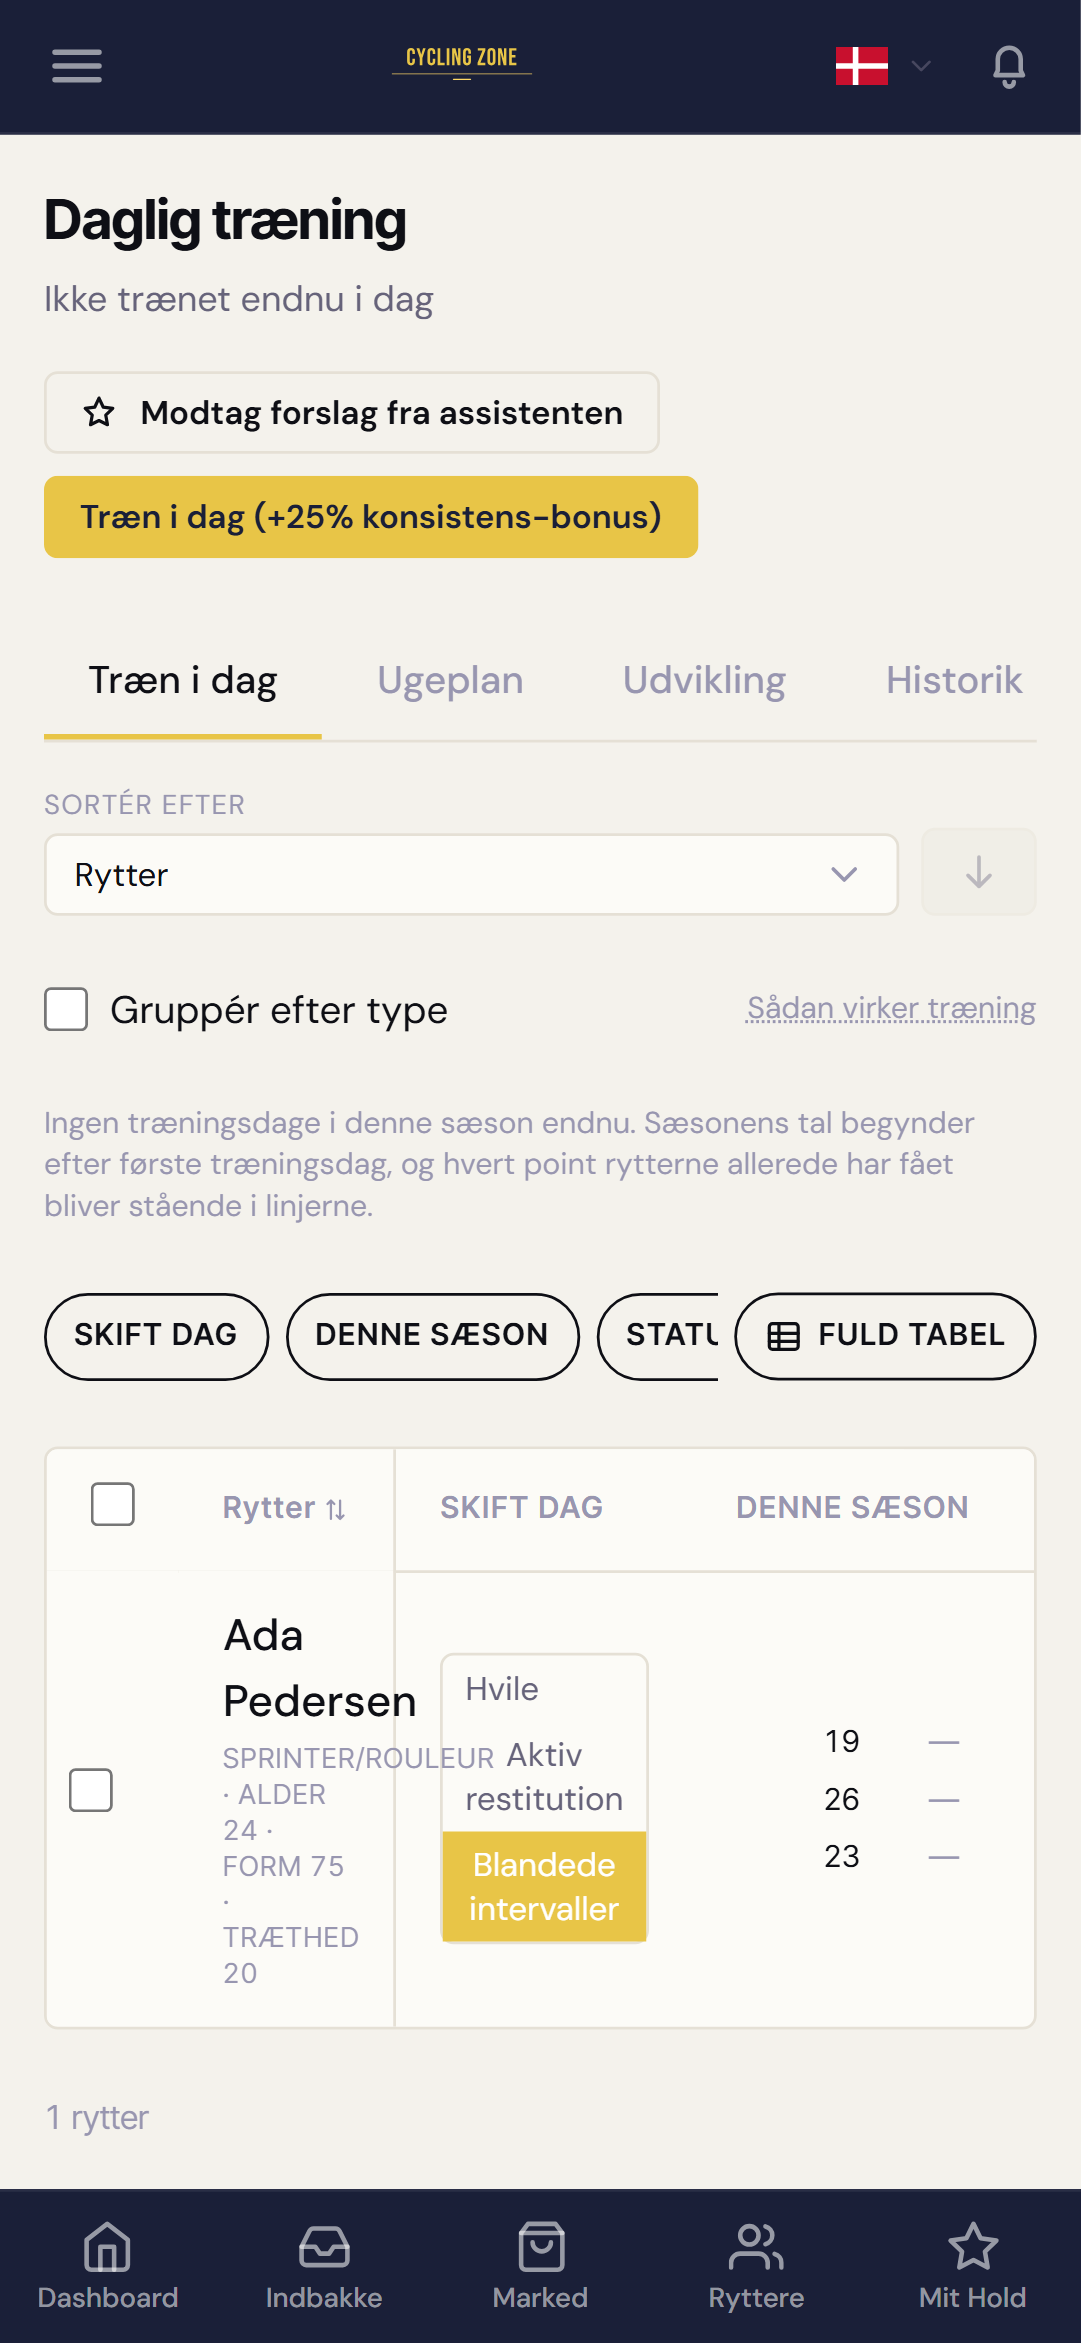
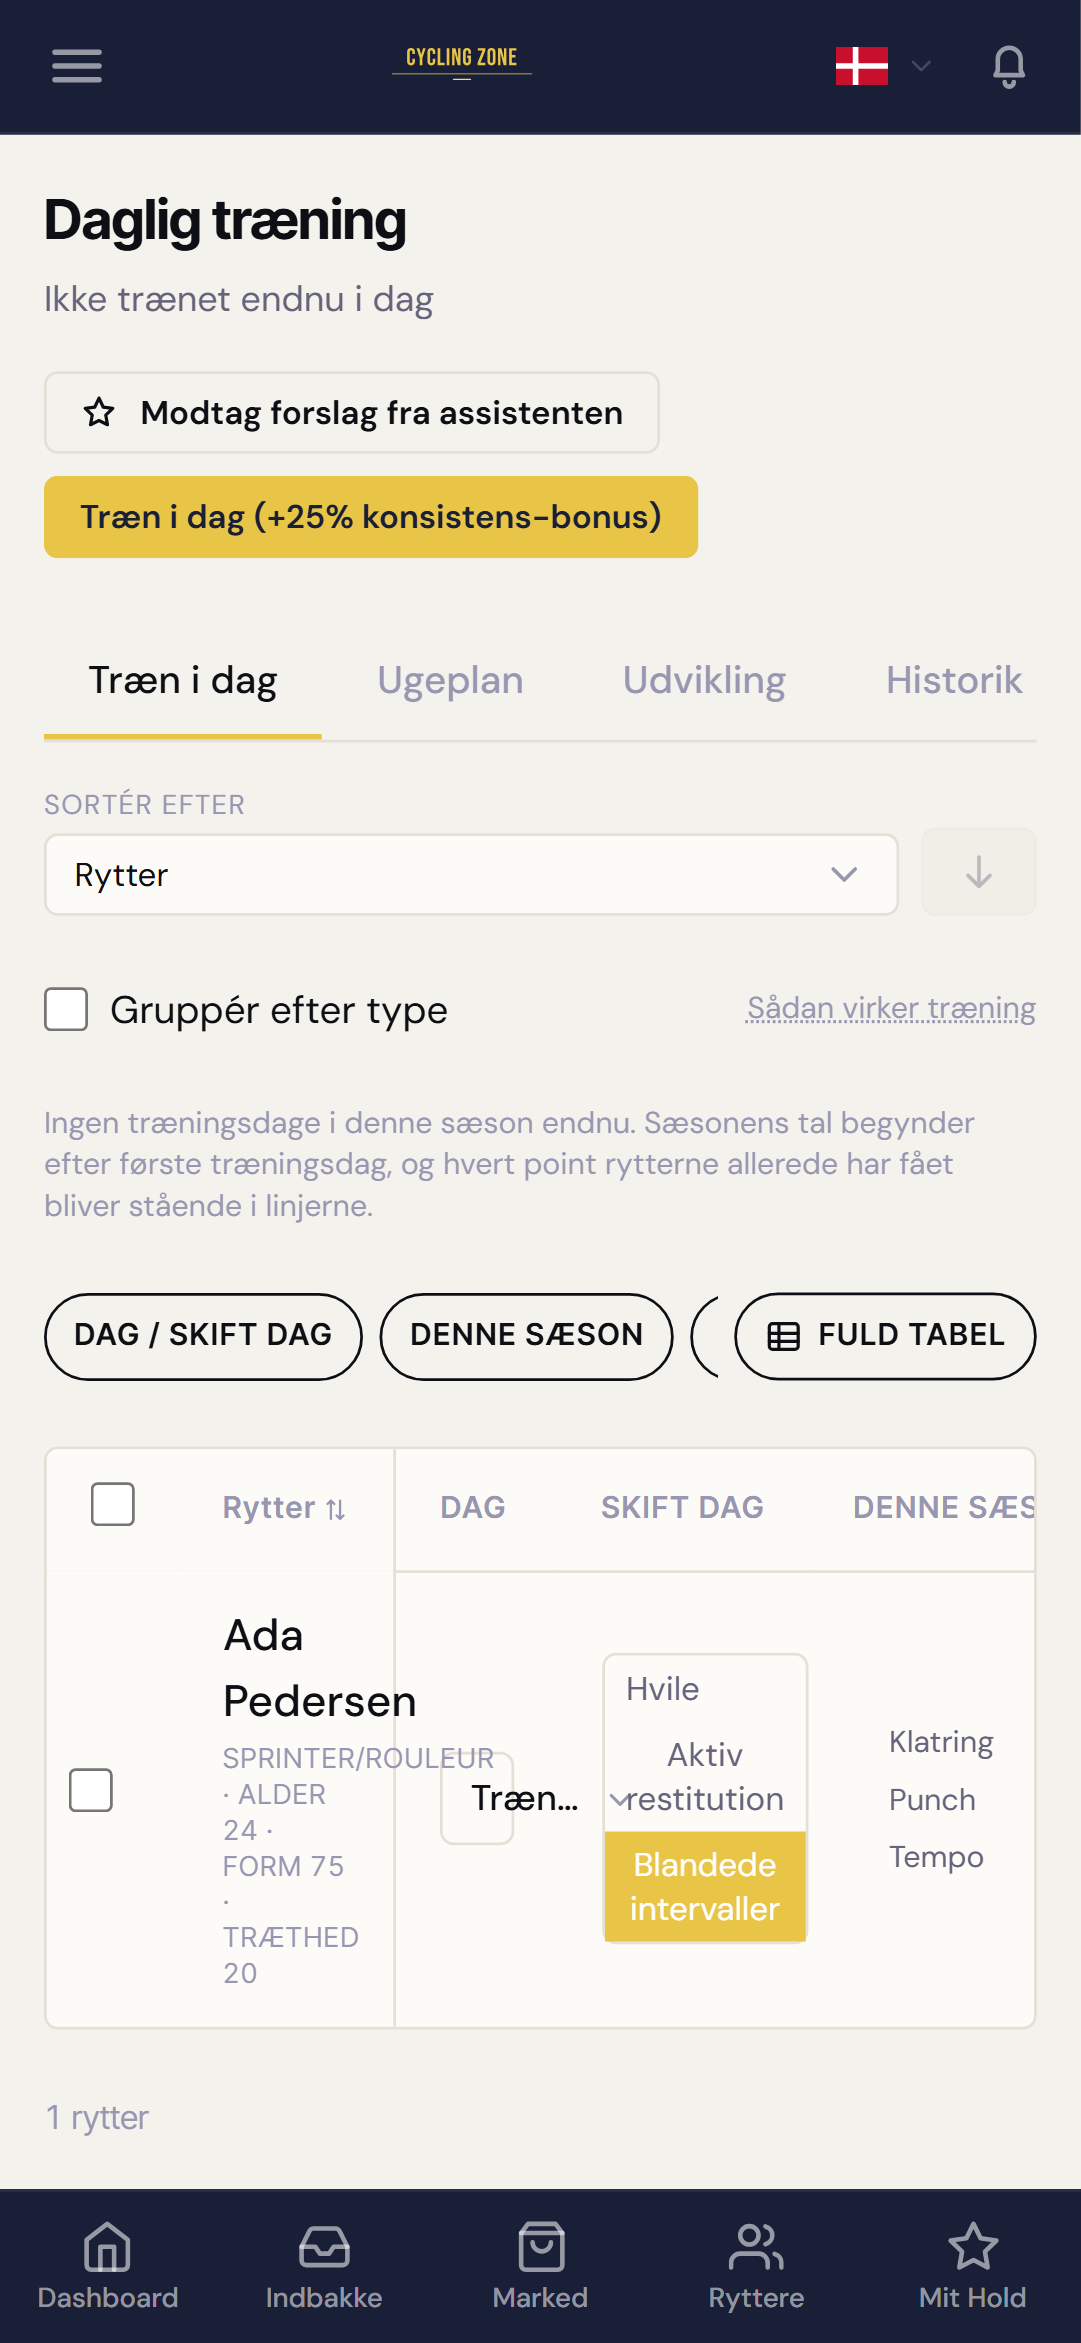
wip(#5124): boelge-timeout, ucommittet arbejde gemt

diff --git a/frontend/src/pages/TrainingPage.jsx b/frontend/src/pages/TrainingPage.jsx
@@ -240,7 +240,12 @@ function FocusOpenButton({ rider, plan, busy, smartFocus, error, onOpen, t, data
         aria-label={`${t("dayPanel.colDay")} — ${rider.firstname} ${rider.lastname}`}
         className="flex w-full max-w-[184px] items-center justify-between gap-2 rounded-cz border border-cz-border px-2.5 py-1.5 text-start transition-colors hover:border-cz-2/40 hover:bg-cz-subtle disabled:opacity-40"
       >
-        <span className="min-w-0">
+        {/* #5124: min-w-[40px]-gulv på labelen — uden den kan `min-w-0` (som
+            truncate kræver) skrumpe teksten til 0px når roster-tabellens
+            mobil-standardtilstand giver denne kolonne meget lidt plads
+            (se rosterMobileColumns/max-w-[15vw] i TrainingPage.jsx). Ingen
+            effekt ved normal 184px-bredde. */}
+        <span className="min-w-[40px]">
           <span className={`block truncate text-[13px] ${plan?.focus ? "font-medium text-cz-1" : "text-cz-3"}`}>
             {plan?.focus ? dayLabel(plan, t) : t("dayPanel.chooseDay")}
           </span>
@@ -758,17 +763,24 @@ export default function TrainingPage() {
   // Status; "Dag" (åbner fokus-panelet) og Ugeplan er ét chip-tryk / "Fuld
   // tabel" væk.
   const isMobile = useIsMobileViewport();
+  // #5124-rettelse (fanget af eksisterende specs, ikke af mig selv): fire
+  // eksisterende specs kræver hver sin kolonne synlig UDEN "Fuld tabel" på
+  // mobil (3762-day-panel + onboarding-touren → "focus"/FocusOpenButton;
+  // training-season-receipt → "receipt" OG "status"), men D-047 giver kun
+  // plads til tre. "focus" (åbn fokus-panelet) og "today" (Skift dag-knapperne)
+  // er derfor SLÅET SAMMEN til én fysisk kolonne ("day") i stedet for at
+  // opfinde en fjerde plads — de to hører allerede sammen (samme handling: sæt
+  // dagens træning), og standard-tre bliver day/receipt/status.
   const rosterMobileColumns = useMemo(
     () => [
-      { key: "focus", header: t("dayPanel.colDay") },
-      { key: "today", header: t("dayPanel.colChangeDay") },
+      { key: "day", header: `${t("dayPanel.colDay")} / ${t("dayPanel.colChangeDay")}` },
       { key: "receipt", header: t("receipt.title") },
       { key: "status", header: t("colStatus") },
       { key: "weekplan", header: t("colWeekPlan") },
     ],
     [t]
   );
-  const ROSTER_MOBILE_DEFAULTS = useMemo(() => ["today", "receipt", "status"], []);
+  const ROSTER_MOBILE_DEFAULTS = useMemo(() => ["day", "receipt", "status"], []);
   const rosterMobile = useMobileTableColumns(rosterMobileColumns, ROSTER_MOBILE_DEFAULTS);
   // Desktop er uændret: `!isMobile` gør showRosterCol altid true dér, uanset
   // chip-valg. Kun ≤640px filtrerer efter det aktive kolonnesæt.
@@ -787,7 +799,18 @@ export default function TrainingPage() {
   // CSS sticky i Fuld tabel", parallel til den skriftlige undtagelse #5124
   // giver sæsonmatricen.
   const rosterScrollerClass = isMobile && !rosterMobile.fullTable ? MOBILE_SCROLLER : SCROLLER;
-  const rosterColSpan = ROSTER_COLS - (isMobile ? rosterMobileColumns.length - rosterMobile.visibleKeys.length : 0);
+  // "day" er ÉN chip-nøgle men TO fysiske kolonner (Dag + Skift dag, samme
+  // <th>-gate, se showRosterCol("day") ovenfor) — colSpan tæller derfor fysiske
+  // kolonner pr. nøgle, ikke antal nøgler, ellers driver gruppe-header- og
+  // ugeplan-underrækkens colSpan fra det faktisk renderede antal <td>.
+  const ROSTER_SWAPPABLE_WEIGHTS = { day: 2, receipt: 1, status: 1, weekplan: 1 };
+  const rosterHiddenPhysicalCols = isMobile
+    ? Object.entries(ROSTER_SWAPPABLE_WEIGHTS).reduce(
+        (sum, [key, weight]) => sum + (rosterMobile.visibleKeys.includes(key) ? 0 : weight),
+        0
+      )
+    : 0;
+  const rosterColSpan = ROSTER_COLS - rosterHiddenPhysicalCols;
 
   // Accessors til roster-sortering. form/fatigue bor i condition-map'et (ikke på
   // rytteren), så closure over condition — useMemo holder referencen stabil pr.
@@ -1008,8 +1031,8 @@ export default function TrainingPage() {
             både main og #3741), og den gule "limited" er den tvetydige bucket
             #3747 beskriver, hvor håndværk (tag 0,95) og anden rolle (0,70)
             lander sammen. Panelet viser kun de påstande der kan efterprøves. */}
-        {showRosterCol("focus") && (
-        <td className={tdClass({})}>
+        {showRosterCol("day") && (
+        <td className={`${tdClass({})} ${isMobile && !rosterMobile.fullTable ? "max-w-[15vw]" : ""}`}>
           {/* #3721: DELT FocusOpenButton — samme komponent/mutation som
               Development-fanens rækker bruger (ingen forgrenet fokus-logik). */}
           <FocusOpenButton
@@ -1027,11 +1050,11 @@ export default function TrainingPage() {
 
         {/* Intensitet — #5124: sidens hovedhandling ("skift dagens træning"),
             derfor en af de tre mobil-standardkolonner (rosterMobile). */}
-        {showRosterCol("today") && (
+        {showRosterCol("day") && (
         // #5124: `max-w` på mobil-standardtilstanden — uden den æder de to
         // tekst-tunge datakolonner (denne + "Denne sæson") navnekolonnens
         // plads i auto-table-layout'et (se navnecellens kommentar ovenfor).
-        <td className={`${tdClass({})} ${isMobile && !rosterMobile.fullTable ? "max-w-[34vw]" : ""}`}>
+        <td className={`${tdClass({})} ${isMobile && !rosterMobile.fullTable ? "max-w-[19vw]" : ""}`}>
           {plan?.focus ? (
             <div
               role="group"
@@ -1118,7 +1141,7 @@ export default function TrainingPage() {
             evne aldrig steg igen — et løfte den nye model gør usandt (#3649). */}
         {showRosterCol("receipt") && (
         <td
-          className={`${tdClass({})} ${isMobile && !rosterMobile.fullTable ? "max-w-[34vw]" : ""}`}
+          className={`${tdClass({})} ${isMobile && !rosterMobile.fullTable ? "max-w-[30vw]" : ""}`}
           data-tour={isFirst ? "training-next-up" : undefined}
         >
           {/* #5124: min-w droppes på mobil-standardtilstanden (ingen vandret
@@ -1162,7 +1185,7 @@ export default function TrainingPage() {
             badges-kolonne foldes heller ikke væk i portræt (#3194), den scroller
             vandret som resten af tabellen. */}
         {showRosterCol("status") && (
-        <td className={`${tdClass({})} ${isMobile && !rosterMobile.fullTable ? "max-w-[30vw]" : ""}`}>
+        <td className={`${tdClass({})} ${isMobile && !rosterMobile.fullTable ? "max-w-[13vw]" : ""}`}>
           <div className="flex flex-wrap gap-1">
             {/* #3761: Status-cellen viste ÉN af de badges rytteren kan bære.
                 De to der mangler er præcis dem der afgør om træningen
@@ -1738,8 +1761,8 @@ export default function TrainingPage() {
                           der "Fokus" og "Intensitet" — to akser der kunne modsige
                           hinanden. Nu er der én dag, og en hurtig vej til at
                           skifte den. */}
-                      {showRosterCol("focus") && <th className={thClass({})}>{t("dayPanel.colDay")}</th>}
-                      {showRosterCol("today") && <th className={thClass({})}>{t("dayPanel.colChangeDay")}</th>}
+                      {showRosterCol("day") && <th className={thClass({})}>{t("dayPanel.colDay")}</th>}
+                      {showRosterCol("day") && <th className={thClass({})}>{t("dayPanel.colChangeDay")}</th>}
                       {/* #3709 trin 1: kolonnen er ikke længere "næste +1" på ÉN
                           evne, men sæsonens kvittering pr. evne i fokusset. */}
                       {showRosterCol("receipt") && <th className={thClass({})}>{t("receipt.title")}</th>}

diff --git a/frontend/src/components/rider/RiderNameCell.jsx b/frontend/src/components/rider/RiderNameCell.jsx
@@ -3,17 +3,27 @@ import RiderLink from "../RiderLink";
 // Rytternavn uden flag (nation har nu sin egen kolonne). Eventuelle badges
 // (U25, status m.m.) leveres af kaldersiden via children, så de ikke blandes
 // ind i nation- eller hold-kolonnen. Bruges som <td>-indhold.
+//
+// #5124: `wrap` (default false, alle eksisterende kald uændrede) lader navnet
+// bryde ved ordgrænser i stedet for at tvinge nowrap-bredden — D-047's
+// mobil-standardtilstand (ingen vandret scroll) kræver det, ligesom
+// DataTable's renderStickyCell(wrap) og TrainingPage.jsx's roster.
 export default function RiderNameCell({
   id,
   firstname,
   lastname,
   stopPropagation = false,
   className = "text-cz-1 text-sm font-medium hover:text-cz-accent-t transition-colors",
+  wrap = false,
   children,
 }) {
   return (
-    <span className="inline-flex items-center gap-1.5 flex-wrap">
-      <RiderLink id={id} stopPropagation={stopPropagation} className={`${className} whitespace-nowrap`}>
+    <span className={`inline-flex items-center gap-1.5 flex-wrap ${wrap ? "min-w-0" : ""}`}>
+      <RiderLink
+        id={id}
+        stopPropagation={stopPropagation}
+        className={`${className} ${wrap ? "min-w-0 break-words" : "whitespace-nowrap"}`}
+      >
         {firstname} {lastname}
       </RiderLink>
       {children}

diff --git a/frontend/src/components/training/AbilityReceiptRow.jsx b/frontend/src/components/training/AbilityReceiptRow.jsx
@@ -36,7 +36,15 @@ export default function AbilityReceiptRow({ row, inFocus = false }) {
         {inFocus && <span className="block h-[5px] w-[5px] rounded-full bg-cz-accent" />}
       </span>
       <span
-        className={`flex-1 min-w-0 truncate text-2xs ${inFocus ? "text-cz-1 font-semibold" : "text-cz-2"}`}
+        // #5124: min-w-[44px]-gulv — uden det kan `min-w-0` (nødvendig for at
+        // truncate overhovedet virker) skrumpe navnet til 0px i en meget smal
+        // container (TrainingPage.jsx's roster på mobil), hvor evne-linjens
+        // øvrige faste kolonner (nu/point/bar, ~130px) alene overstiger den
+        // tildelte plads. Et navn på mindst 44px er stadig læsbart ("Klatring"
+        // trunkeres først herfra); resten af linjen kan i stedet klippes af den
+        // omsluttende container. Ingen effekt i bredere kontekster (desktop/
+        // rytterprofil), hvor flex-1 alligevel får rigelig plads.
+        className={`flex-1 min-w-[44px] truncate text-2xs ${inFocus ? "text-cz-1 font-semibold" : "text-cz-2"}`}
         title={inFocus ? t("receipt.inFocusTitle") : undefined}
       >
         {label}

diff --git a/frontend/tests/e2e/5124-training-mobile.spec.js b/frontend/tests/e2e/5124-training-mobile.spec.js
@@ -1,6 +1,9 @@
-// #5124 — D-047 til Daglig træning-rosteret på mobil (<768px, targettet
-// mobile-chromium ved 393px, samme viewport som playwright.config.js's
-// mobile-chromium-projekt). Roster-tabellen kan ikke bruge <DataTable> (multi-
+// #5124 — D-047 til Daglig træning-rosteret på mobil. #5124's ejer-tekst siger
+// "<768px", men selve mekanikken genbruger D-047/DataTable.jsx's EGEN,
+// kanoniske grænse (`useIsMobileViewport`, 640px — samme som Tailwinds `sm`)
+// for at holde ÉN grænse i hele appen, ikke to. Testet ved 393px, samme
+// viewport som playwright.config.js's mobile-chromium-projekt (godt under
+// begge grænser). Roster-tabellen kan ikke bruge <DataTable> (multi-
 // select-checkbox + gruppe-header-rækker + en udvidelig ugeplan-underrække),
 // så mobil-standarden bygges i TrainingPage.jsx selv oven på MobileTableChips.jsx
 // (se filens kommentar ved `rosterMobile`).

diff --git a/frontend/src/pages/TransfersPage.jsx b/frontend/src/pages/TransfersPage.jsx
@@ -1000,11 +1000,9 @@ function MarketRow({
               // #5124: navnet må bryde (ved ordgrænsen) i mobil-standardtilstanden
               // i stedet for at tvinge en nowrap-bredde — samme regel som
               // TrainingPage.jsx's roster og DataTable's renderStickyCell(wrap).
-              className={
-                isMobile && !showStatCols
-                  ? "text-cz-1 text-sm font-medium hover:text-cz-accent-t transition-colors min-w-0"
-                  : undefined
-              }
+              // `wrap`-proppen (RiderNameCell.jsx) fjerner den ellers altid
+              // tilføjede whitespace-nowrap (CodeRabbit-fund, #5124).
+              wrap={isMobile && !showStatCols}
             />
           </div>
         </td>

diff --git a/frontend/tests/e2e/5124-transfers-mobile.spec.js b/frontend/tests/e2e/5124-transfers-mobile.spec.js
@@ -1,4 +1,6 @@
-// #5124 — D-047 til Transferlisten på mobil (<768px). Markeds-tabellen kan
+// #5124 — D-047 til Transferlisten på mobil. #5124's ejer-tekst siger "<768px",
+// men mekanikken genbruger D-047/DataTable.jsx's egen 640px-grænse
+// (`useIsMobileViewport`) — ÉN grænse i hele appen, ikke to. Markeds-tabellen kan
 // ikke bruge <DataTable> (bulk-select-checkbokse i den sticky navne-celle + en
 // expander-handlingsrække pr. listing, se WRAP-kommentaren i TransfersPage.jsx),
 // og de 15 evne-kolonner havde ALDRIG en `hidden`-klasse — det er den reelle

diff --git a/frontend/tests/e2e/5124-auctions-mobile.spec.js b/frontend/tests/e2e/5124-auctions-mobile.spec.js
@@ -1,4 +1,6 @@
-// #5124 — D-047-audit af Auktioner på mobil (<768px).
+// #5124 — D-047-audit af Auktioner på mobil (#5124's ejer-tekst siger "<768px";
+// AuctionCard/tabel-splittet herunder bruger sin egen, allerede eksisterende
+// `md:hidden`/`hidden md:block`-grænse på 768px, forud for #5124).
 //
 // FUND (dokumenteret her i stedet for i kode, da ingen kode ændres): Auktions-
 // tabellen (AuctionRow, sticky navn venstre + sticky bud højre — se kommentaren

diff --git a/frontend/tests/e2e/5124-season-matrix-mobile.spec.js b/frontend/tests/e2e/5124-season-matrix-mobile.spec.js
@@ -1,4 +1,5 @@
-// #5124 — D-047-audit af sæsonmatricen på mobil (<768px).
+// #5124 — D-047-audit af sæsonmatricen på mobil (testet ved 393px, godt under
+// baade #5124's egen "<768px"-tekst og D-047/DataTable.jsx's 640px-grænse).
 //
 // FUND (dokumenteret her + som kode-kommentar i SeasonMatrix.jsx, jf. #5124's
 // krav om skriftlig begrundelse for undtagelsen): matricen er en rytter ×
